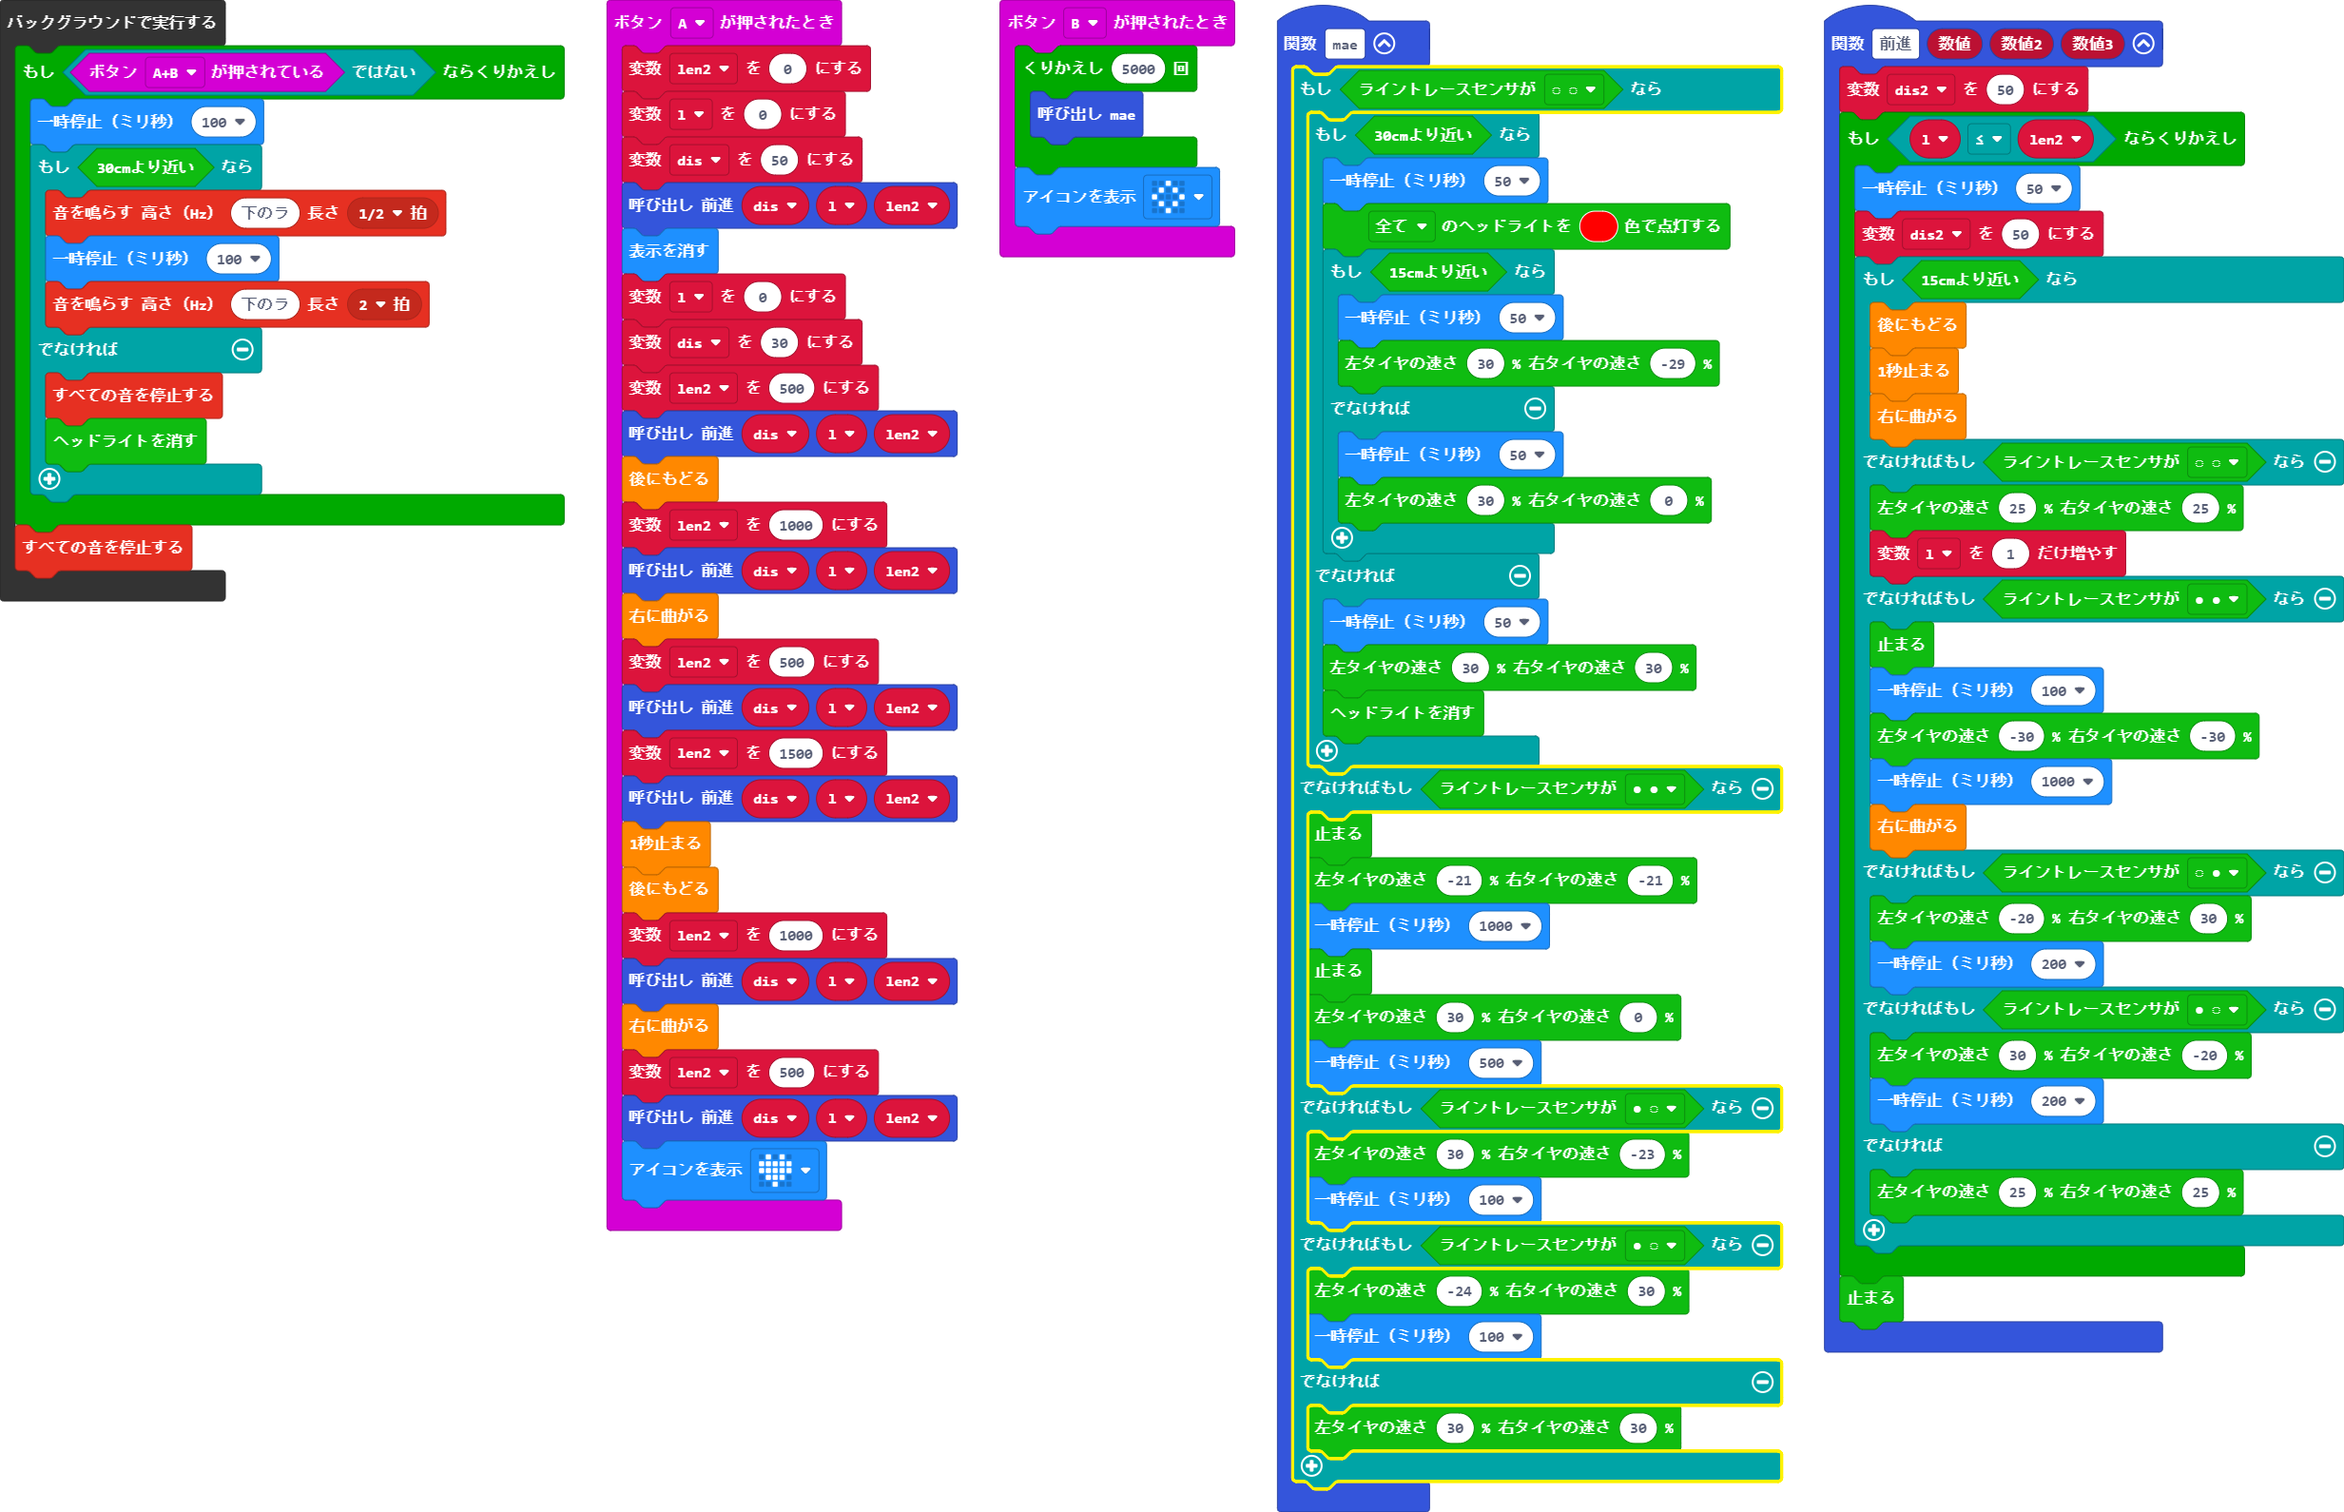
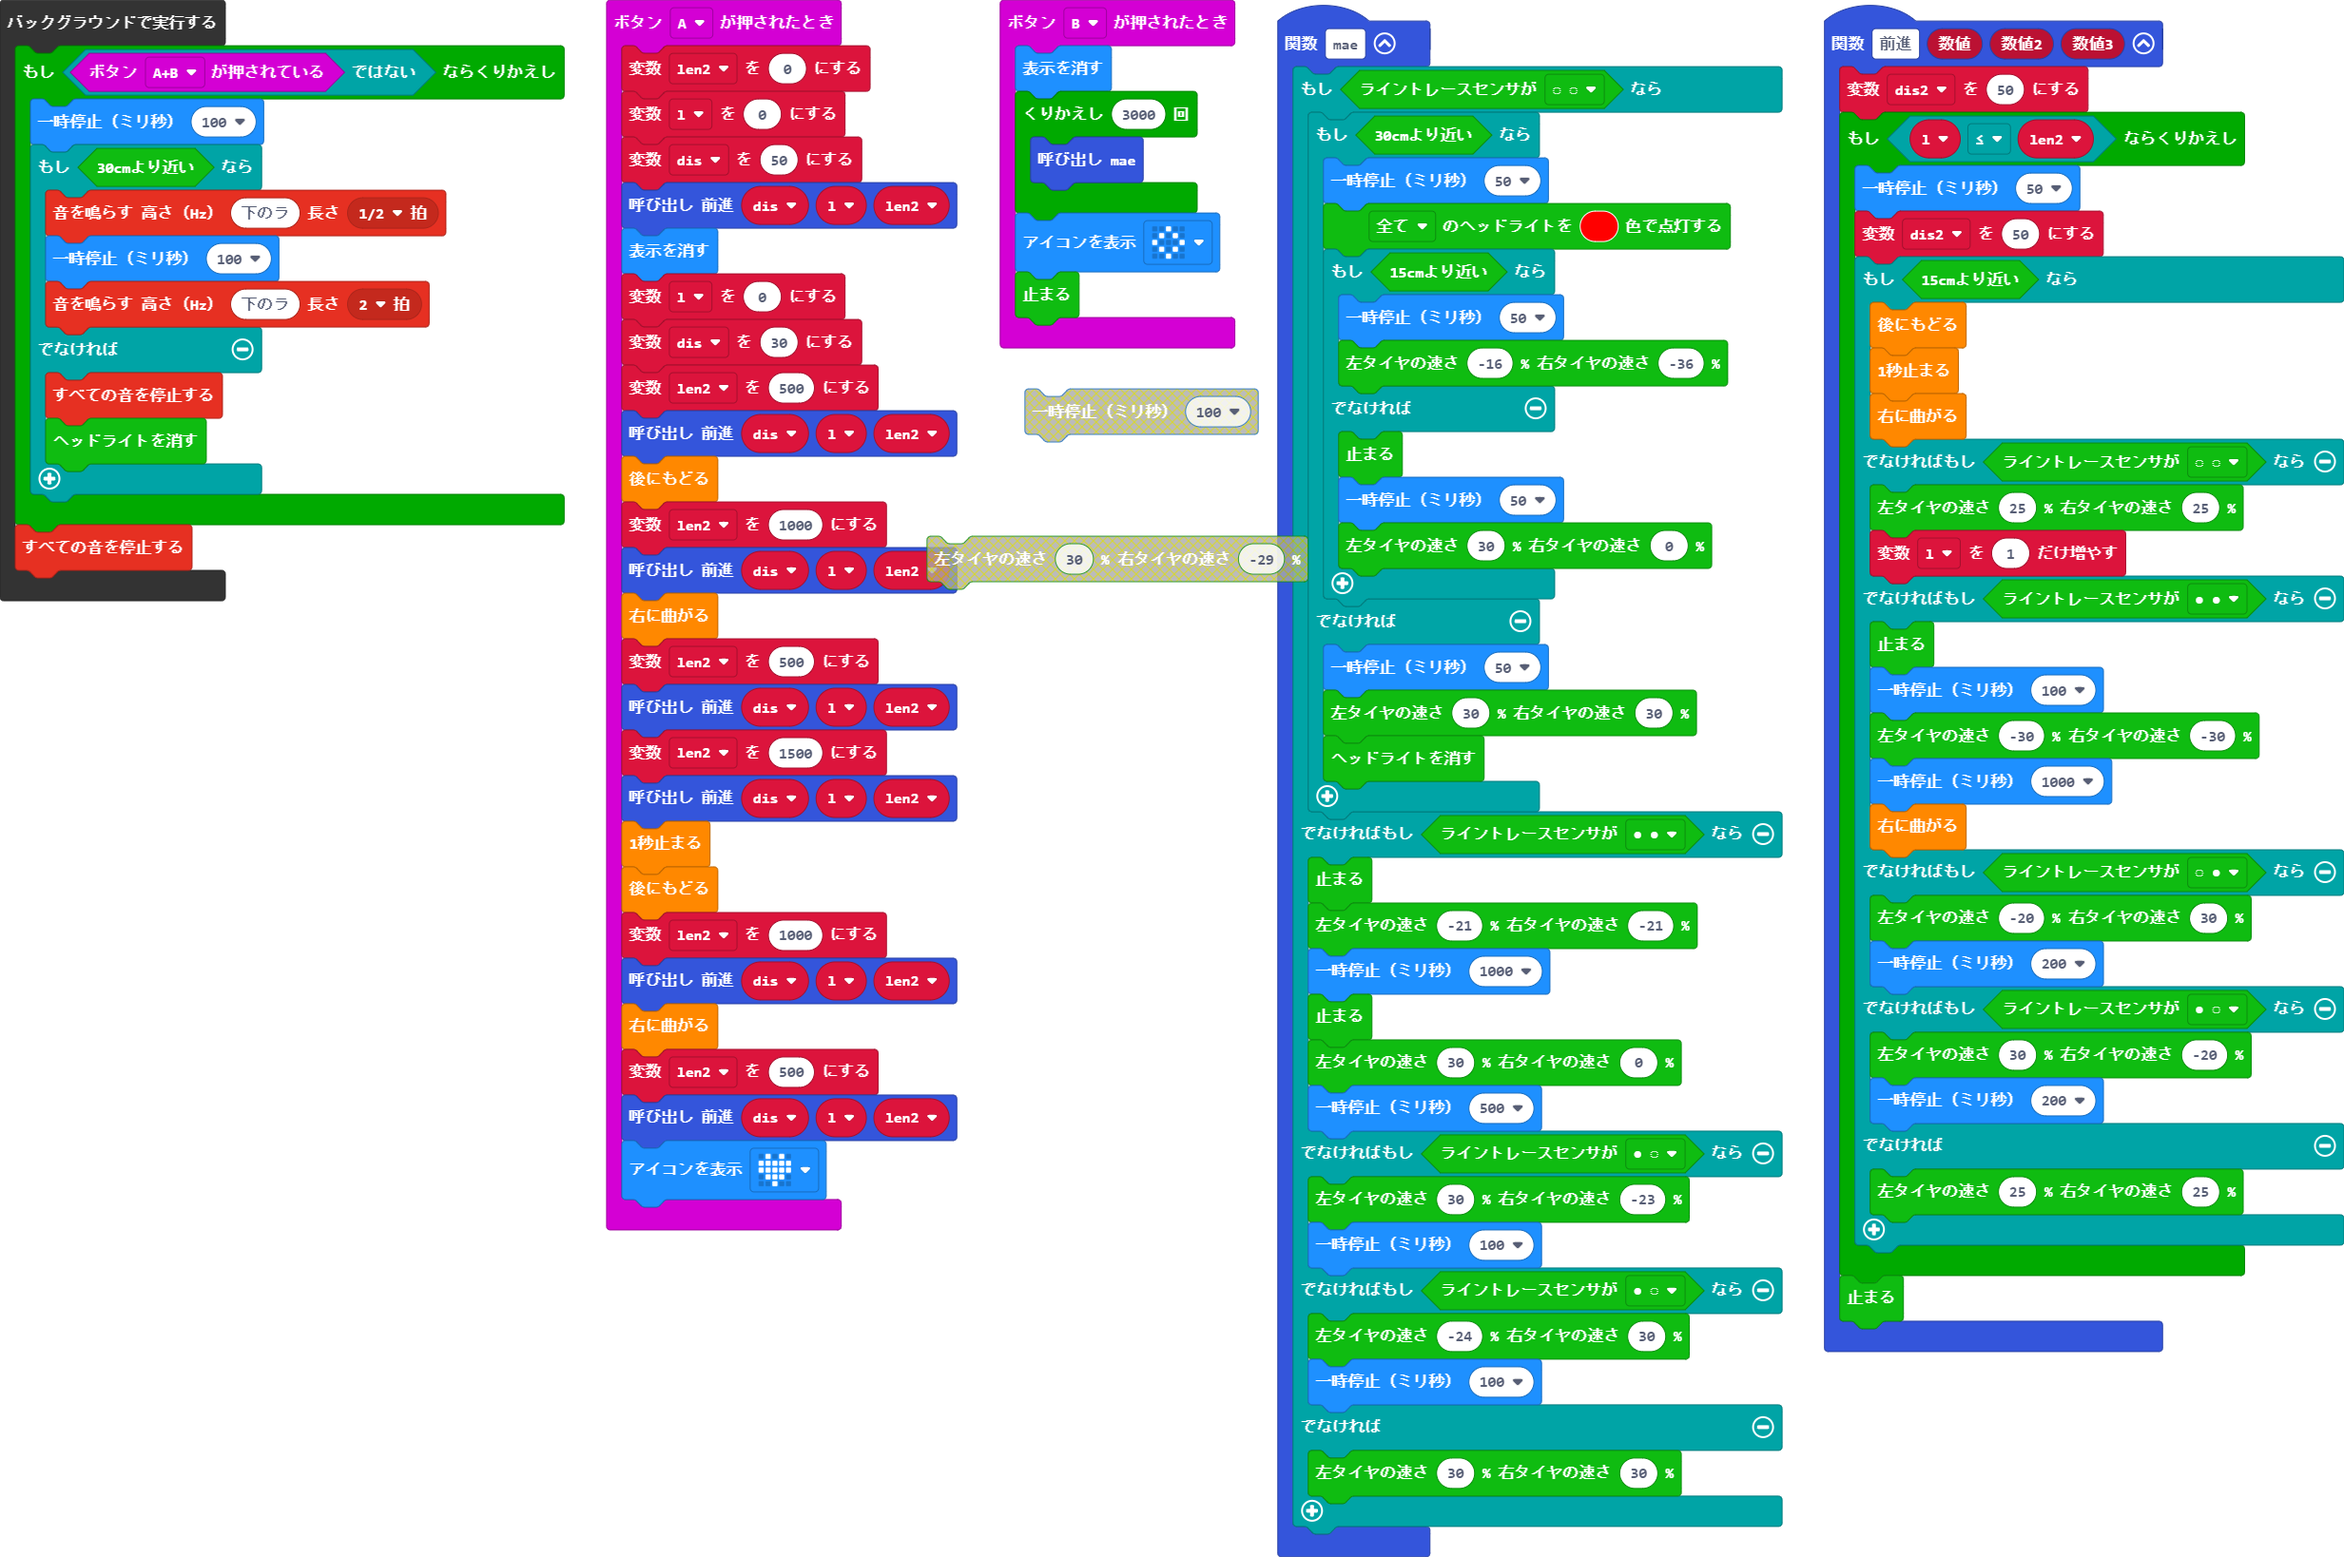
更新 pxt.json, main.blocks, main.ts

Changed region(s): [[0.0, 0.0, 1.0, 0.9862]]

diff --git a/main.ts b/main.ts
@@ -9,8 +9,9 @@ function mae () {
             cuteBot.colorLight(cuteBot.RGBLights.ALL, 0xff0000)
             if (cuteBot.kyori()) {
                 basic.pause(50)
-                cuteBot.motors(30, -29)
+                cuteBot.motors(-16, -36)
             } else {
+                cuteBot.stopcar()
                 basic.pause(50)
                 cuteBot.motors(30, 0)
             }
@@ -94,10 +95,12 @@ function 前進 (数値: number, 数値2: number, 数値3: number) {
     cuteBot.stopcar()
 }
 input.onButtonPressed(Button.B, function () {
-    for (let index = 0; index < 5000; index++) {
+    basic.clearScreen()
+    for (let index = 0; index < 3000; index++) {
         mae()
     }
     basic.showIcon(IconNames.Diamond)
+    cuteBot.stopcar()
 })
 control.inBackground(function () {
     while (!(input.buttonIsPressed(Button.AB))) {
